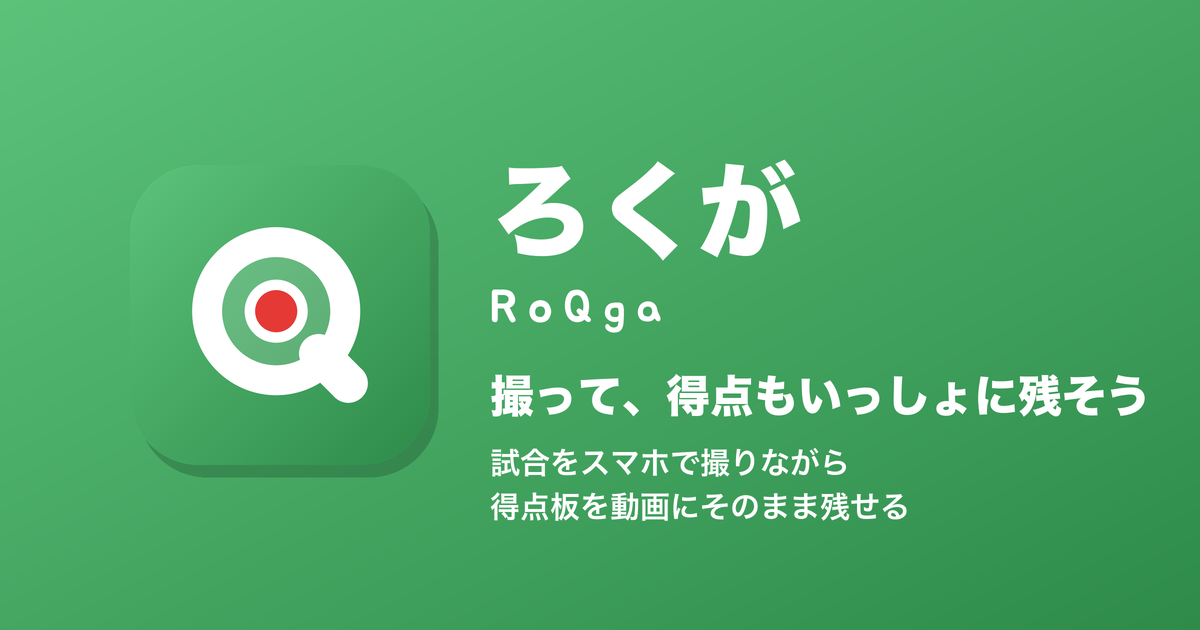
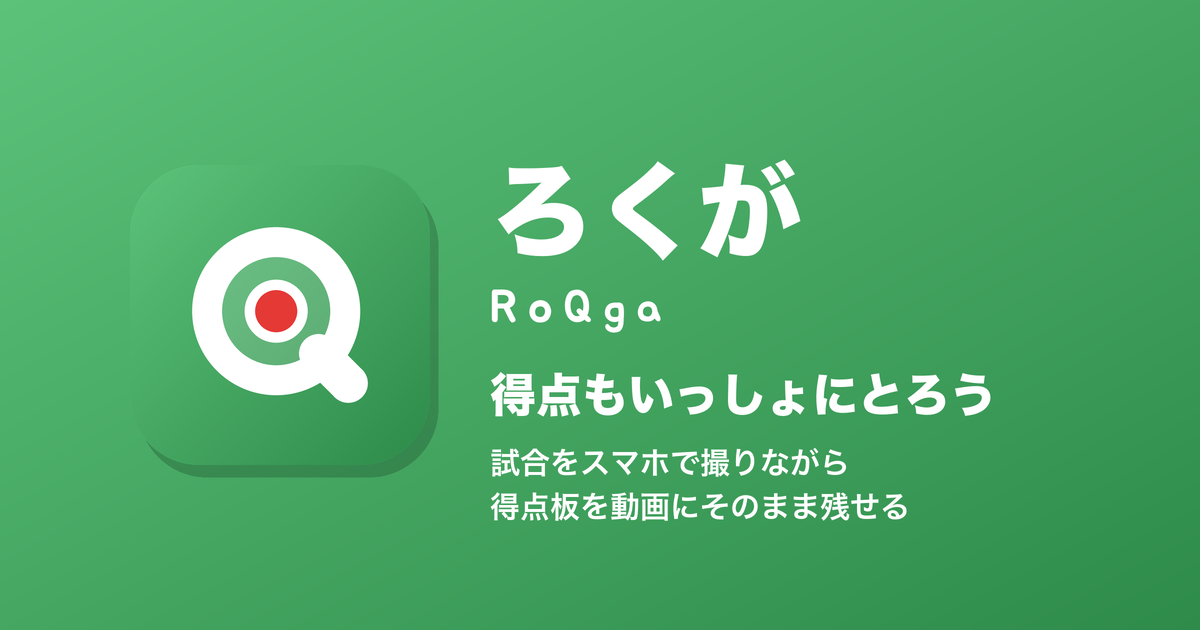
[fix] キャッチコピーを「得点もいっしょにとろう」（撮る・取る）にする

Changed region(s): [[0.4008, 0.573, 0.9558, 0.6635]]

diff --git a/index.html b/index.html
@@ -11,7 +11,7 @@
 <meta property="og:description" content="試合をスマホで撮りながら、得点板（チーム名とスコア）を動画にそのまま残せます">
 <meta property="og:url" content="https://katsuan.github.io/score-recorder/">
 <meta property="og:locale" content="ja_JP">
-<meta property="og:image" content="https://katsuan.github.io/score-recorder/ogp.png?v=20261021b">
+<meta property="og:image" content="https://katsuan.github.io/score-recorder/ogp.png?v=20261021c">
 <meta property="og:image:width" content="1200">
 <meta property="og:image:height" content="630">
 <meta property="og:image:alt" content="ろくが（RoQga）：試合をスマホで撮りながら、得点板を動画にそのまま残せる">
@@ -24,13 +24,13 @@
 <link rel="manifest" href="manifest.webmanifest">
 <link rel="preconnect" href="https://fonts.googleapis.com">
 <link href="https://fonts.googleapis.com/css2?family=M+PLUS+Rounded+1c:wght@400;700;800&display=swap" rel="stylesheet">
-<link rel="stylesheet" href="style.css?v=202610202329">
+<link rel="stylesheet" href="style.css?v=202610202330">
 </head>
 <body>
 <!-- はじめの画面：チーム名・色を決めて、カメラを開く（さくせん盤で入れたチーム名・色があれば、それを使う） -->
 <main id="setup" class="setup">
   <h1><img class="logo" src="icon.svg" alt="" width="28" height="28">ろくが<small>RoQga</small></h1>
-  <p class="copy">撮って、得点もいっしょに残そう</p>
+  <p class="copy">得点もいっしょにとろう</p>
   <p class="lead">試合を撮りながら、得点板（チーム名とスコア）を動画にそのまま入れて残します。<br>スマホは<b>横向き</b>で使います。</p>
   <!-- 得点板のプレビュー：撮る前に、動画に入る得点板（チーム名・色・スコア、GOAL のエフェクト）を見ておける -->
   <div class="preview-box">
@@ -125,7 +125,7 @@
   </div>
 </div>
 
-<script src="app.js?v=202610202329"></script>
+<script src="app.js?v=202610202330"></script>
 <!-- おくるんのカードの入口（LIFF ID とカードの URL は line-share の shared/oqrn.js に1か所）と、紹介の窓口 -->
 <script src="https://katsuan.github.io/line-share/shared/oqrn.js"></script>
 <script src="https://katsuan.github.io/line-share/shared/tool-share.js" data-tool="roqga" defer></script>

diff --git a/tools/icon.py b/tools/icon.py
@@ -1,7 +1,7 @@
 #!/usr/bin/env python3
 """ろくが（RoQga）のアイコン・ロゴ・OGP を作る。
 
-名前は「ろくが」（録画）。英字は RoQga（おくるん＝OQRN・キロっく＝kiloQ と同じ作り方で、「く」を Q にする）。
+名前は「ろくが」（録画）。キャッチコピーは「得点もいっしょにとろう」（撮る＝録画と、取る＝点を取るのかけことば）。英字は RoQga（おくるん＝OQRN・キロっく＝kiloQ と同じ作り方で、「く」を Q にする）。
 アイコンはおくるんと同じ角の丸い四角に、さくせん盤と同じピッチの緑（さくせん盤の追加アプリなので）。録画のランプだけ赤。
 Q はカメラのレンズの輪：白い輪の真ん中に、録画中の赤いランプ（白い丸の中の赤い点）。Q のしっぽは右下へ、短く太く（細長いと虫めがねに見える）。
 
@@ -46,7 +46,7 @@ def main():
     BRAND.write_icons(ROOT, SHAPES)
     logo, ratio = BRAND.logo_svg("RoQga", SHAPES, C, RING_OUTER, "RoQga（ろくが）")
     (ROOT / "logo.svg").write_text(logo, encoding="utf-8")
-    BRAND.write_ogp(ROOT / "ogp.png", SHAPES, "ろくが", "RoQga", ["試合をスマホで撮りながら", "得点板を動画にそのまま残せる"], copy="撮って、得点もいっしょに残そう")
+    BRAND.write_ogp(ROOT / "ogp.png", SHAPES, "ろくが", "RoQga", ["試合をスマホで撮りながら", "得点板を動画にそのまま残せる"], copy="得点もいっしょにとろう")
     print(f"アイコン・logo.svg（高さ 28px なら幅 {28 * ratio:.0f}px）・ogp.png を書き出しました")
 
 
